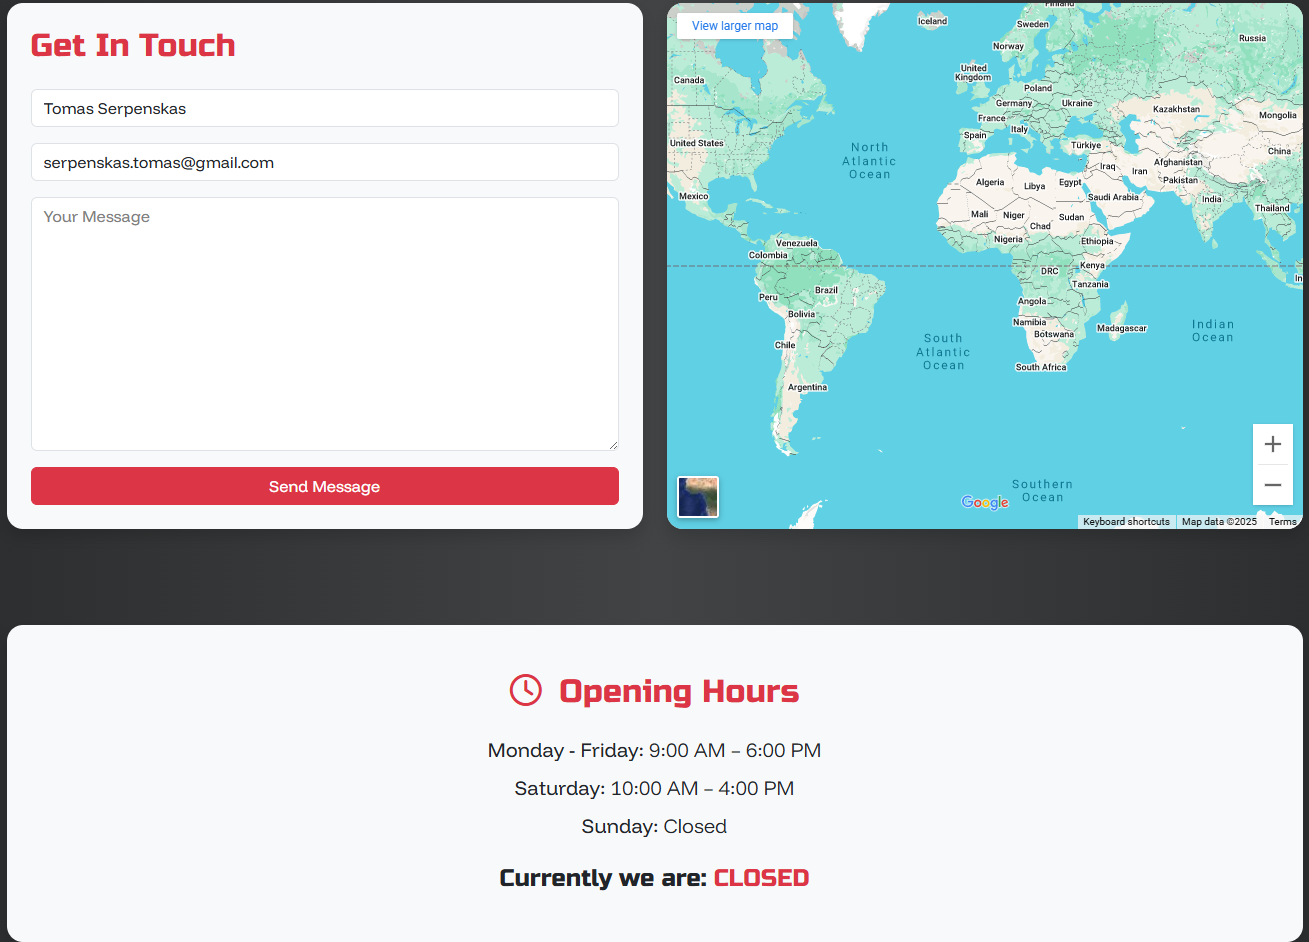
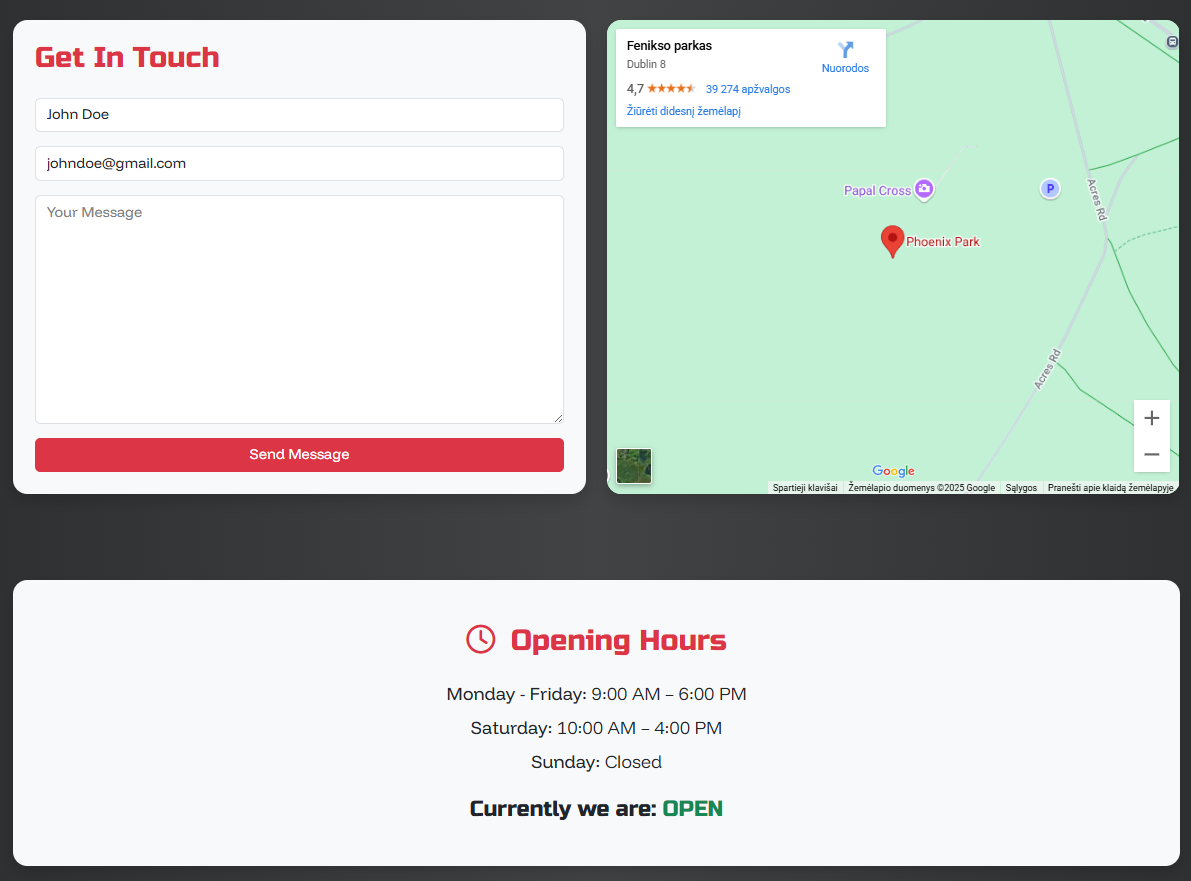
Add more information to readme.md and fix map iframe not showing correct address

diff --git a/home/templates/home/contact.html b/home/templates/home/contact.html
@@ -32,7 +32,7 @@
             <!-- Google Map -->
             <div class="col-md-6 d-flex flex-column">
                 <div class="rounded-4 overflow-hidden shadow w-100 h-100 reveal">
-                    <iframe src="https://www.google.com/maps/embed?pb=..."
+                    <iframe src="https://www.google.com/maps/embed?pb=!1m18!1m12!1m3!1d2381.294427408497!2d-6.332388222950003!3d53.35588547400941!2m3!1f0!2f0!3f0!3m2!1i1024!2i768!4f13.1!3m3!1m2!1s0x48670da9f174517b%3A0xa126d82d9add596b!2sFenikso%20parkas!5e0!3m2!1slt!2sie!4v1746528002303!5m2!1slt!2sie"
                             width="600"
                             height="400"
                             style="width: 100%;
@@ -41,7 +41,8 @@
                                    min-height: 400px"
                             allowfullscreen=""
                             loading="lazy"
-                            referrerpolicy="no-referrer-when-downgrade"></iframe>
+                            referrerpolicy="no-referrer-when-downgrade">
+                    </iframe>
                 </div>
             </div>
         </div>

diff --git a/README.md b/README.md
@@ -10,36 +10,39 @@ Stickered is a full-stack eCommerce web application built using Django and Boots
 
 ## Table of Contents
 
-1. [Project Goals](#project-goals)  
-2. [UX Design](#ux-design)  
-   - [Skeleton](#skeleton)  
-   - [Surface](#surface)  
-   - [Typography & Colour](#typography--colour)  
-3. [Features](#features)  
-   - [Front-End Features](#front-end-features)  
-   - [Admin / Backend Features](#admin--backend-features)  
-4. [Pages Overview](#pages-overview)  
-   - [Home Page](#home-page)  
-   - [Shop Page](#shop-page)  
-   - [Product Detail Page](#product-detail-page)  
-   - [Product Add Page](#product-add-page)  
-   - [Product Edit Page](#product-edit-page)  
-   - [Cart Page](#cart-page)  
-   - [Checkout Page](#checkout-page)  
-   - [Profile Page](#profile-page)  
-   - [Order Detail Page](#order-detail-page)  
-   - [Login, Register & Password Reset](#login-register--password-reset)  
-   - [Contact Page](#contact-page)  
-   - [About Page](#about-page)  
-   - [Custom 400, 403, 404, 500 error handling pages](#custom-400-403-404-500-error-handling-pages)  
-5. [Database Design](#database-design)  
-6. [Technologies Used](#technologies-used)  
-7. [Testing & Bugs](#testing--bugs)  
-8. [Development Process](#development-process)  
-9. [Deployment](#deployment)  
-10. [Marketing Strategy](#marketing-strategy)  
-11. [Business Model](#business-model)  
-12. [Credits](#credits)
+1. [Project Goals](#project-goals)
+2. [UX Design](#ux-design)
+   - [Skeleton](#skeleton)
+   - [Surface](#surface)
+   - [Typography & Colour](#typography--colour)
+3. [Features](#features)
+   - [Front-End Features](#front-end-features)
+   - [Admin / Backend Features](#admin--backend-features)
+4. [Future Features](#future-features)
+5. [Pages Overview](#pages-overview)
+   - [Home Page](#home-page)
+   - [Shop Page](#shop-page)
+   - [Product Detail Page](#product-detail-page)
+   - [Product Add Page](#product-add-page)
+   - [Product Edit Page](#product-edit-page)
+   - [Cart Page](#cart-page)
+   - [Checkout Page](#checkout-page)
+   - [Profile Page](#profile-page)
+   - [Order Detail Page](#order-detail-page)
+   - [Login, Register & Password Reset](#login-register--password-reset)
+   - [Contact Page](#contact-page)
+   - [About Page](#about-page)
+   - [Custom 400, 403, 404, 500 error handling pages](#custom-400-403-404-500-error-handling-pages)
+6. [Admin Panel](#admin-panel)
+7. [Automated Emails](#automated-emails)
+8. [Database Design](#database-design)
+9. [Technologies Used](#technologies-used)
+10. [Testing & Bugs](#testing--bugs)
+11. [Development Process](#development-process)
+12. [Deployment](#deployment)
+13. [Marketing Strategy](#marketing-strategy)
+14. [Business Model](#business-model)
+15. [Credits](#credits)
 
 ---
 
@@ -59,7 +62,7 @@ Stickered is a full-stack eCommerce web application built using Django and Boots
 #### Homepage
 ![image](https://raw.githubusercontent.com/1nsomn1aa/Stickered-V2/refs/heads/main/readmeimages/homedesktop.png)
 
-The design of this project was kept simple yet modern to make the site easy to use, but still pleasing to look at. Since the product images are bright and colorful, the rest of the site uses mostly black (#000000), dark gray (#55595c), and a soft off-white blue (#f0f8ff). These neutral colors help the products stand out. A bold red (#dc3545) is used for buttons and important messages. Overall, the result is clean and clear, without any unnecessary distractions.
+The design of this project was kept simple yet modern to make the site easy to use, but still pleasing to look at. Since the product images are bright and colorful, the rest of the site uses mostly black (#000000), dark gray (#55595c), and a soft off-white blue (#f0f8ff). These neutral colors help the products stand out. A bold red (#dc3545) is used for buttons and important messages. Overall, the end result is clean and without any unnecessary distractions.
 
 ### Skeleton
 Wireframe for the home page was drafted using Balsamiq and was used throughout the development process.
@@ -81,7 +84,7 @@ Wireframe for the home page was drafted using Balsamiq and was used throughout t
 
 - **Color palette:**
   - Soft White-Blue (`#f0f8ff`) and Dark Gray (`#55595c`) for backgrounds
-  - Pure Black (`#000000`) and Pure White (`#FFFFFF`) for headings and emphasis
+  - Pure Black (`#000000`) and Pure White (`#FFFFFF`) for headings, paragraphs and emphasis
   - Bright Red (`#dc3545`) for alerts, errors, buttons and key highlights
 
 #### Colors
@@ -135,10 +138,36 @@ Wireframe for the home page was drafted using Balsamiq and was used throughout t
 
 ---
 
+## Future Features
+
+While Stickered already offers a complete shopping experience, there are a few ideas I'd like to implement in the future:
+
+- **Product Reviews**  
+  Allow customers to leave reviews and ratings on products.
+
+- **Discount Codes & Sales**  
+  Add the ability for customers to enter discount codes at checkout.
+
+- **Stock Management**  
+  Introduce inventory tracking so that products can show as "Out of Stock" or "Limited Edition" when applicable.
+
+- **Multi Image Uploads**  
+  Support adding more than one image per product.
+
+- **Admin Dashboard Charts**  
+  Include charts in the admin panel to track total sales, top products, and customer activity.
+
+- **Advanced Newsletter Features**  
+  Create email campaigns or scheduled emails for product launches and updates.
+
+These features aren't critical for the first version but would help make the site more useful and professional in the long run.
+
+---
+
 ## Pages Overview
 
 ### Home Page
-Landing page that introduces the brand. Features a large, eye-catching hero picture that sets the theme with bold information text and two buttons. After a small delay, a newsletter popup appears suggesting the users to sign up to the newsletter. After a user signs up, the information is stored and the popup no longer appears. Below is the "Latest Releases" slider by Swiper JS that shows the latest products added to the shop. Towards the bottom of the page there is a testimonial section that shows previous testimonials and a submit form that is only accessible to authenticated users and has form validation. At the bottom of the page there is a footer section with social media links.
+Landing page that introduces the brand. Features a large, eye-catching hero picture that sets the theme with bold information text and two buttons. After a small delay, a newsletter popup appears suggesting the users to sign up to the newsletter. After a user signs up, the information is stored and the popup no longer appears. Below is the "Latest Releases" slider by Swiper JS that shows the latest products added to the shop. Towards the bottom of the page there is a testimonial section that shows previous testimonials and a submit form that is only accessible to authenticated users and has form validation. Testimonial form is automatically pre-filled with the information from the users profile. At the bottom of the page there is a footer section with social media links.
 
 #### Desktop
 ![image](https://raw.githubusercontent.com/1nsomn1aa/Stickered-V2/refs/heads/main/readmeimages/homedesktop.png)
@@ -221,17 +250,23 @@ Secure checkout form, pre-filled for registered users with their information for
 #### Checkout Mobile
 ![image](https://raw.githubusercontent.com/1nsomn1aa/Stickered-V2/refs/heads/main/readmeimages/checkoutmobile.png)
 
+#### Order Confirmation
+![image](https://raw.githubusercontent.com/1nsomn1aa/Stickered-V2/refs/heads/main/readmeimages/thankyouorder.png)
+
 ### Profile Page
-User dashboard with editable profile details, photo upload, order status tracking and previous contact messages.
+User dashboard with editable profile details, photo upload, order status tracking and previous contact messages. On picture upload, the system checks if the picture is new and if so - it deletes the previous profile picture to save space.
 
 #### Profile Desktop
 ![image](https://raw.githubusercontent.com/1nsomn1aa/Stickered-V2/refs/heads/main/readmeimages/profile.gif)
 
 ### Order Detail Page
-Detailed breakdown of each order including items, sizes, shipping method, and current status.
+Detailed breakdown of each order including shipping information, order summary, items, sizes, pricing, and current status.
 
-#### Order Details Desktop
-![image](https://raw.githubusercontent.com/1nsomn1aa/Stickered-V2/refs/heads/main/readmeimages/ordersummary.png)
+#### Order Details Confirmed
+![image](https://raw.githubusercontent.com/1nsomn1aa/Stickered-V2/refs/heads/main/readmeimages/orderconfirmed.png)
+
+#### Order Details Shipped
+![image](https://raw.githubusercontent.com/1nsomn1aa/Stickered-V2/refs/heads/main/readmeimages/ordershipped.png)
 
 ### Login, Register & Password Reset
 Uses Django Allauth with custom styling. Allauth pages customized with Bootstrap and validation messages.
@@ -241,6 +276,15 @@ Uses Django Allauth with custom styling. Allauth pages customized with Bootstrap
 
 #### Login Mobile
 ![image](https://raw.githubusercontent.com/1nsomn1aa/Stickered-V2/refs/heads/main/readmeimages/loginmobile.png)
+
+#### Register Desktop
+![image](https://raw.githubusercontent.com/1nsomn1aa/Stickered-V2/refs/heads/main/readmeimages/registerdesktop.png)
+
+#### Register Mobile
+![image](https://raw.githubusercontent.com/1nsomn1aa/Stickered-V2/refs/heads/main/readmeimages/registermobile.png)
+
+#### Password Reset
+![image](https://raw.githubusercontent.com/1nsomn1aa/Stickered-V2/refs/heads/main/readmeimages/passwordreset.png)
 
 ### Contact Page
 Form for users to submit inquiries. Messages sent via SMTP to the site owner, also saved in admin interface and user profile messages section. Includes an Iframe of google maps and a live status of store opening times.
@@ -259,6 +303,107 @@ Shows custom pages for each type of error.
 
 #### 404 Desktop
 ![image](https://raw.githubusercontent.com/1nsomn1aa/Stickered-V2/refs/heads/main/readmeimages/404.png)
+
+---
+
+### Admin Panel
+
+The Django admin panel gives administrators full control over the site’s content and database. In addition to the default Django features, Stickered includes several custom admin tools to make managing the store easier:
+
+#### Testimonials
+
+View, add, edit, or delete customer testimonials shown on the homepage.
+
+![image](https://raw.githubusercontent.com/1nsomn1aa/Stickered-V2/refs/heads/main/readmeimages/testimonialadmin.png)
+
+#### Product Size Types
+
+Manage all available size options for products — add, update, or remove them as needed.
+
+![image](https://raw.githubusercontent.com/1nsomn1aa/Stickered-V2/refs/heads/main/readmeimages/sizeadmin.png)
+
+#### Products
+
+Full control over the store’s products. Admins can create new items, edit details, upload images, and remove outdated listings.
+
+![image](https://raw.githubusercontent.com/1nsomn1aa/Stickered-V2/refs/heads/main/readmeimages/productadmin.png)
+
+#### Orders
+
+View submitted orders, update their status (e.g. shipped or completed), provide tracking numbers, or manually adjust items if needed.
+
+![image](https://raw.githubusercontent.com/1nsomn1aa/Stickered-V2/refs/heads/main/readmeimages/orderadmin.png)
+
+#### Newsletter Signups
+
+View and manage users who have subscribed to the newsletter via the popup form.
+
+![image](https://raw.githubusercontent.com/1nsomn1aa/Stickered-V2/refs/heads/main/readmeimages/newsletteradmin.png)
+
+#### Contact Messages
+
+Review messages sent through the Contact Us form.
+
+![image](https://raw.githubusercontent.com/1nsomn1aa/Stickered-V2/refs/heads/main/readmeimages/contactadmin.png)
+
+#### Categories
+
+Add, edit, or delete product categories to help organize the store.
+
+![image](https://raw.githubusercontent.com/1nsomn1aa/Stickered-V2/refs/heads/main/readmeimages/categoryadmin.png)
+
+---
+
+## Automated Emails
+
+Stickered sends several automated emails to keep users informed and improve the shopping experience. These include:
+
+**Order Confirmed** – Sent after a successful checkout
+
+![image](https://raw.githubusercontent.com/1nsomn1aa/Stickered-V2/refs/heads/main/readmeimages/confirmed.png)
+
+**Order Shipped** – Sent when the order status is updated to shipped
+
+![image](https://raw.githubusercontent.com/1nsomn1aa/Stickered-V2/refs/heads/main/readmeimages/shipped.png)
+
+**Order Completed** – Sent when the order is marked as completed
+
+![image](https://raw.githubusercontent.com/1nsomn1aa/Stickered-V2/refs/heads/main/readmeimages/completed.png)
+
+**Newsletter Signup Confirmation** – Sent after users subscribe to the newsletter
+
+![image](https://raw.githubusercontent.com/1nsomn1aa/Stickered-V2/refs/heads/main/readmeimages/newsletterconfirm.png)
+
+**Contact Us Message Confirmation** – Sent after submitting the contact form
+
+![image](https://raw.githubusercontent.com/1nsomn1aa/Stickered-V2/refs/heads/main/readmeimages/message.png)
+
+**Password Reset** – Sent through Django Allauth when users request a password reset
+
+![image](https://raw.githubusercontent.com/1nsomn1aa/Stickered-V2/refs/heads/main/readmeimages/reset.png)
+
+All emails are styled for clarity and include helpful details:
+
+#### Orders
+- Order number
+- Product names
+- Sizes
+- Quantity
+- Shipping method
+- Price
+- Tracking information
+- Status
+
+#### Newsletter Signup
+- Signup confirmation
+
+#### Contact Us
+- Received message confirmation
+
+#### Password Reset
+- Site URL
+- Reset link
+- Username reminder
 
 ---
 
@@ -332,7 +477,7 @@ To manage the workflow, I used GitHub Projects as an Agile board. I set up templ
 
 The project is hosted on **Heroku**, with the following setup:
 - AWS S3 bucket for image and static file storage
-- Stripe live/test keys handled via config vars
+- Stripe test keys handled via config vars
 - Heroku PostgreSQL as the primary database
 - Heroku Config Vars to hide sensitive information
 
